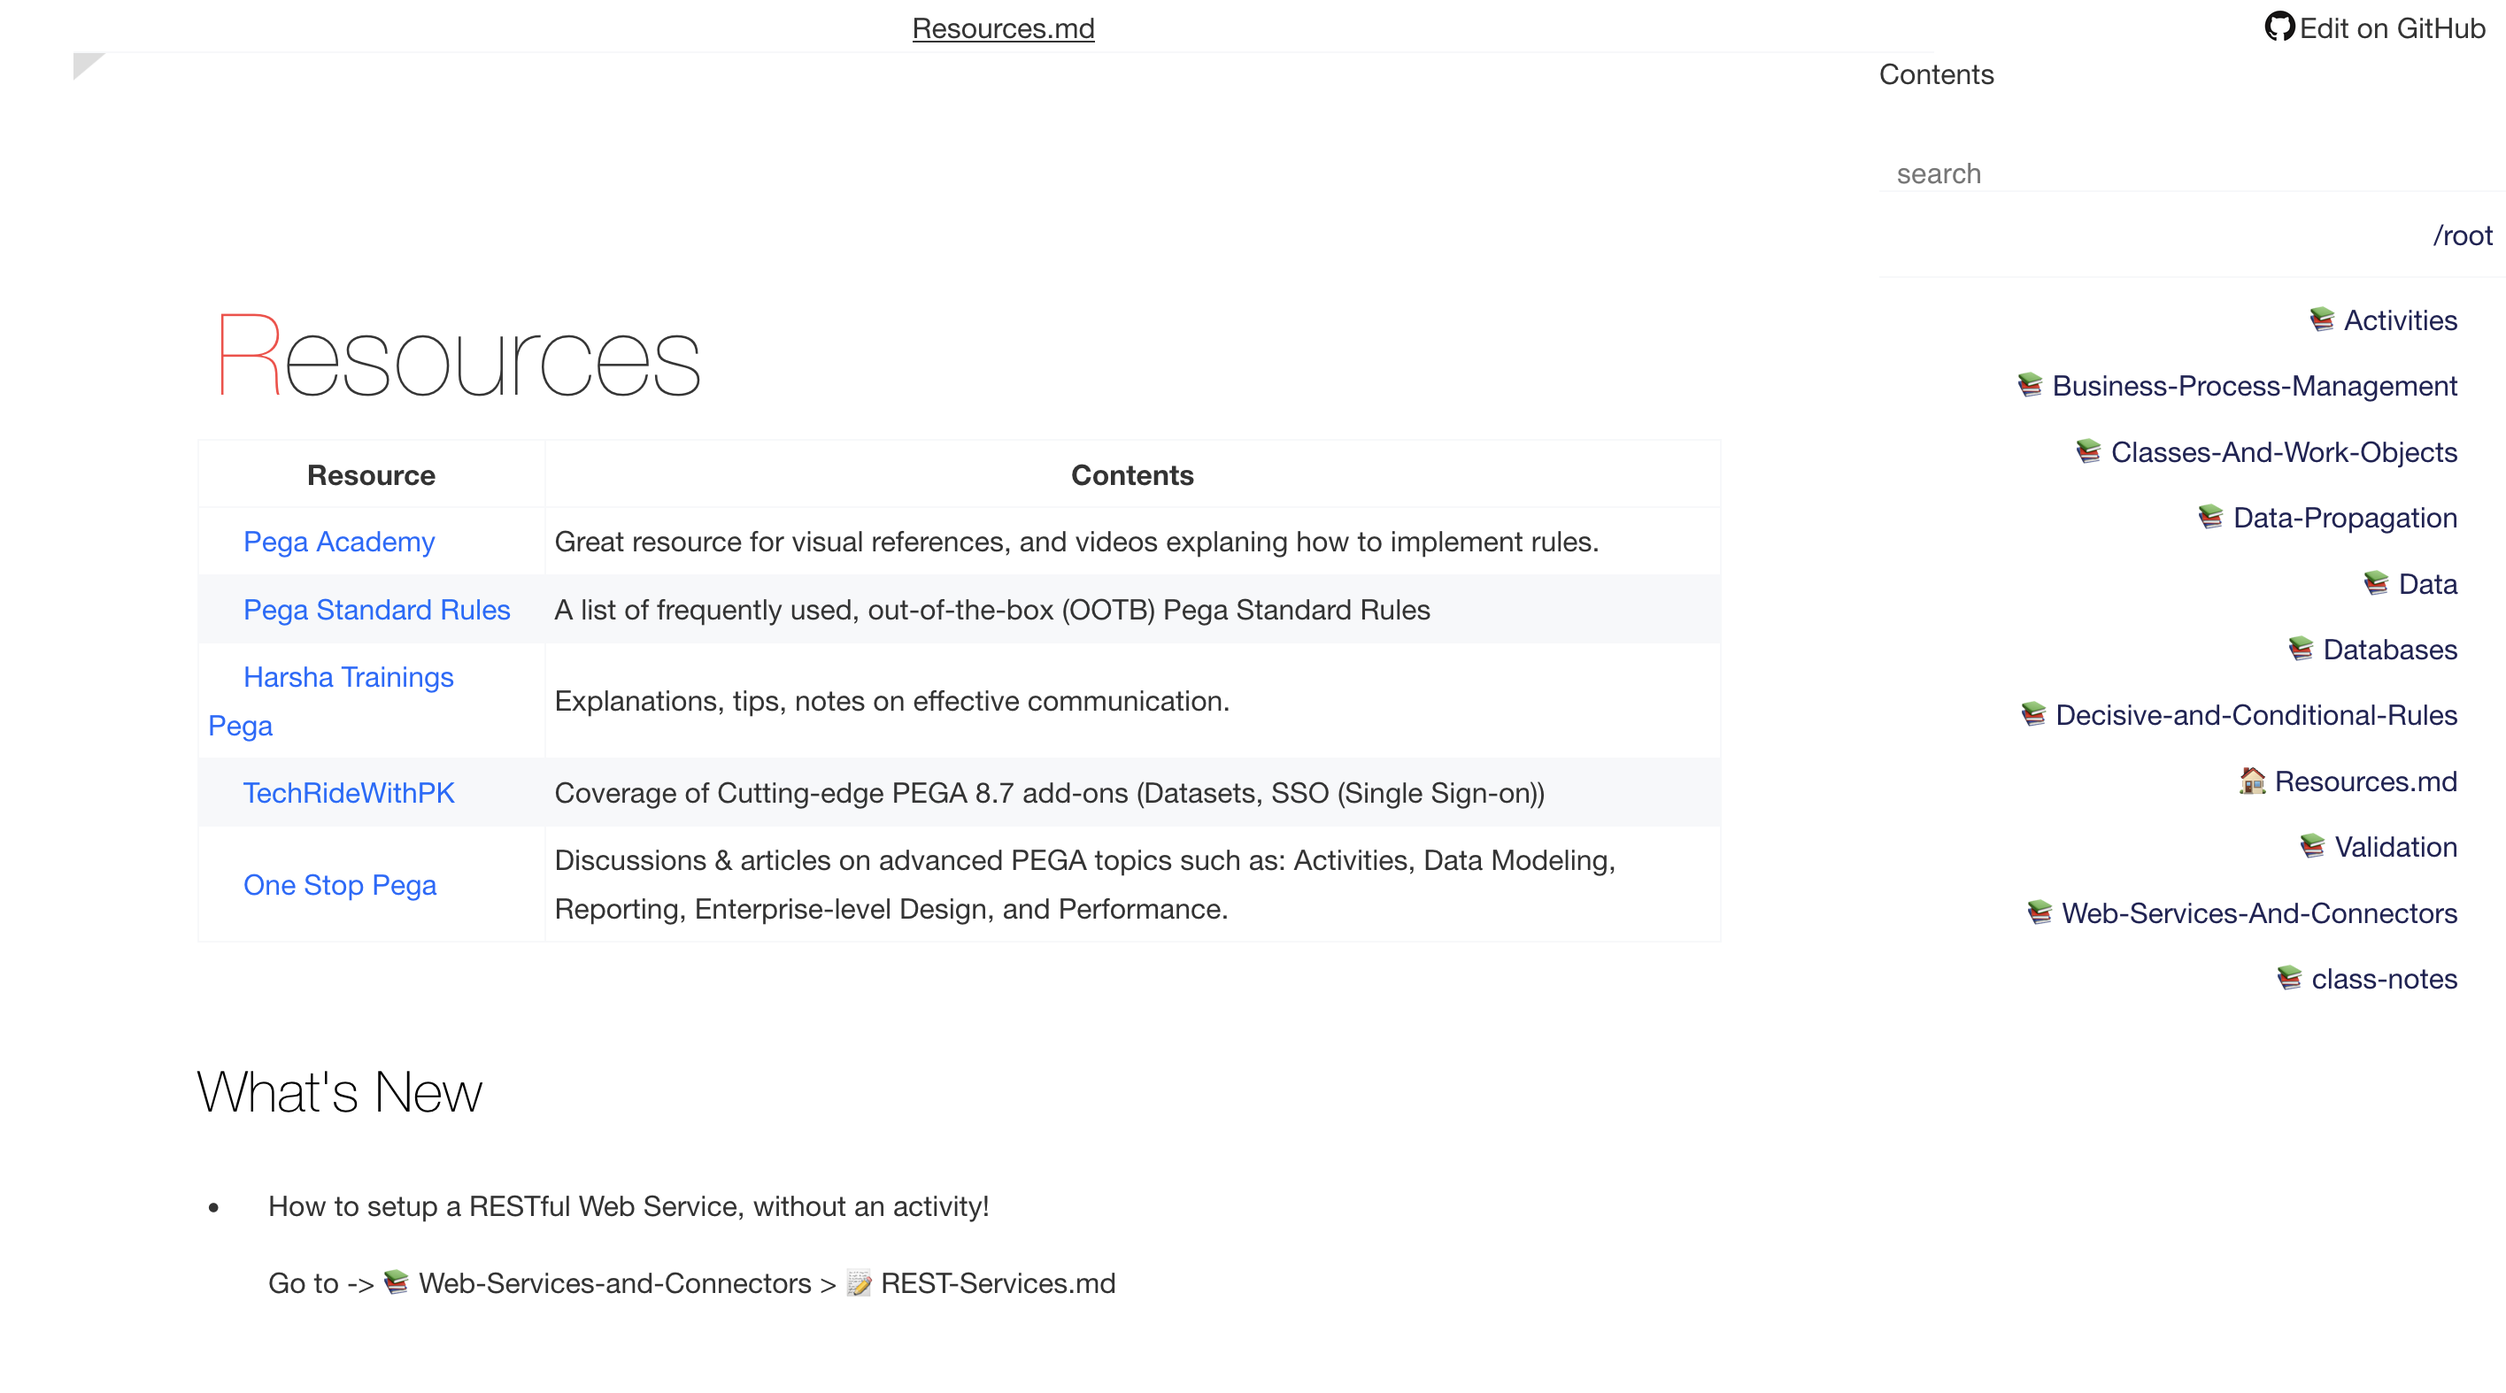
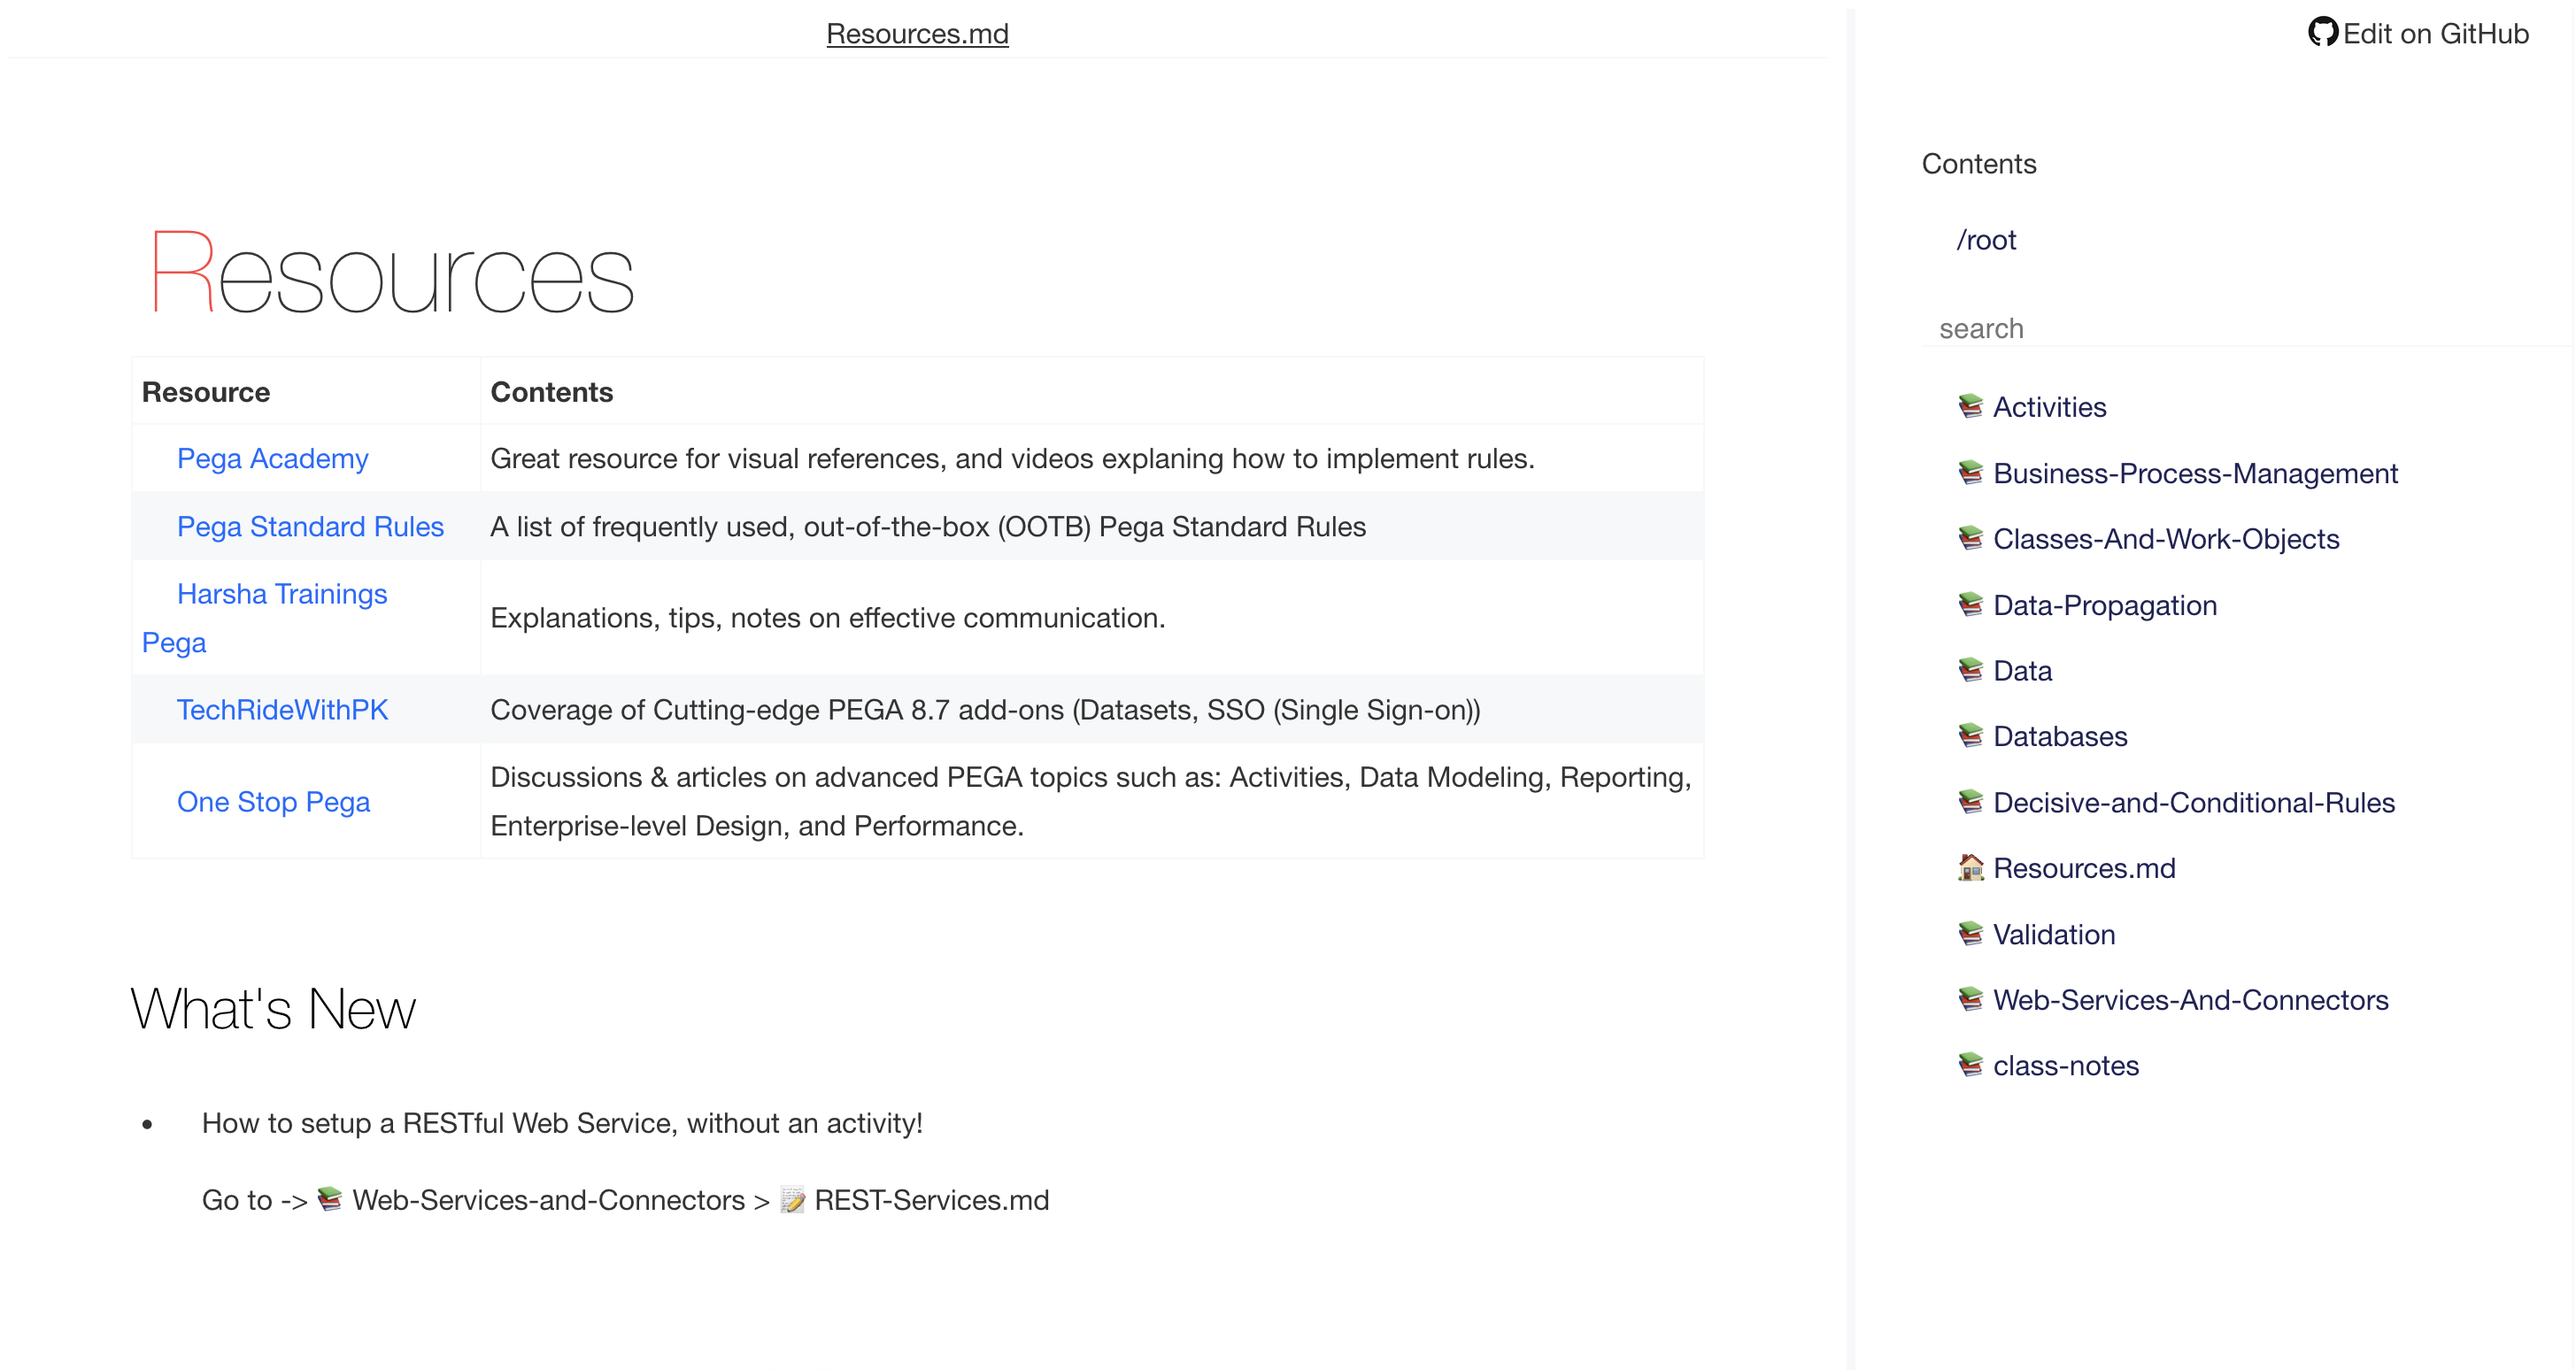
-

diff --git a/src/Template.jsx b/src/Template.jsx
@@ -4,25 +4,32 @@ const Template = ({ currentPage,
                     nextPage,
                     nextSearch, 
                     currentDirectory,
-                    getVisitedDirectory
+                    getVisitedDirectory,
                   }) => {
+  var list = []
+  currentDirectory.map(e => {
+    if (e !== 'root'){
+      list.push(e)
+    }
+  })
   const editOnGithubHandler = () => {
     window.open(
-    `https://www.github.com/${archive}/edit/master/${currentPage}`, "_blank");
+    `https://www.github.com/${archive}/edit/master/${list.join('/')}/${currentPage}`, "_blank");
   }
+
   return (
     <>
       <div id="left">     
+      <br></br>
         <p style={{ textAlign: "left"}}>Contents</p>
-        <input type="text" placeholder="search" onChange={nextSearch} style={{top: -11.5, position: 'sticky', background: 'white', borderTop: '10px solid white', width: '100%'}}></input>
-        {currentDirectory.filter(dir => dir !== "").map((dir, i) => {
+        <div id="path">{currentDirectory.filter(dir => dir !== "").map((dir, i) => {
           return (
             <a href={"/#"} id="link" key={i} onClick={ () => getVisitedDirectory(dir)}>
               {"/" + dir}
             </a>
           )
-        })}
-        <hr></hr>
+        })}</div>
+        <input type="text" placeholder="search" onChange={nextSearch} style={{top: -11.5, position: 'sticky', background: 'white', borderTop: '10px solid white', width: '100%'}}></input>
         {contents.map((content, i) => {
           return (
             <div id="contents" key={i}>
@@ -35,14 +42,7 @@ const Template = ({ currentPage,
       </div>
 
       <div id="right">
-        <div className="chevron" style={{
-                background: '#ddd',
-                position: 'fixed',
-                top: '15px',
-                marginLeft: '50px',
-                height: '20px',
-                transform: 'skewY(-40deg)',
-              }}></div>
+
         <p id="page-title" style={{textDecoration: "underline", borderBottom: "1px solid #f6f8fa"}}>{currentPage}</p>
         <p style={{ background: "#ffffff", textAlign: 'right', position: 'fixed', right: '15px', top: '0', margin: '10px', cursor: 'pointer'}} onClick={editOnGithubHandler}><img src="https://github.githubassets.com/images/modules/logos_page/GitHub-Mark.png" alt="gitty-cat" style={{width: '23px', height: 'auto', position: 'fixed', right: '120px', top: 1}} />Edit on GitHub</p>
         <div id="main" />

diff --git a/src/css/Template.css b/src/css/Template.css
@@ -13,13 +13,16 @@ body, html {
 
 @media (min-width: 200px){
   #right {
+    margin-left: 0px;
+    text-align: left;
     position: absolute;
     top: 0px;
     bottom: 0;
     left: 0;
-    width: 75%;
+    width: 70%;
     overflow-y: scroll; 
     overflow-x: hidden;
+    border-right: 5px solid #f6f8fa;
   }
   
   #left {
@@ -42,13 +45,17 @@ overrides some markdown styling
 
 }
 
+#path {
+  text-align: left;
+}
 
 #link{
   padding: 0px;
 }
 
 #main {
-  padding: 100px;
+  padding: 35px;
+  padding-right: 20px;
 }
 
 #left {
@@ -63,7 +70,6 @@ overrides some markdown styling
   top: 0; position: sticky;
   background: #ffffff;
   margin-top: 0;
-  margin-left: 50px;
 }
 
 input {
@@ -76,6 +82,7 @@ input {
 
 #contents {
   transition: 0.3s ease 0s;
+  text-align: left;
 }
 
 #contents:hover{
